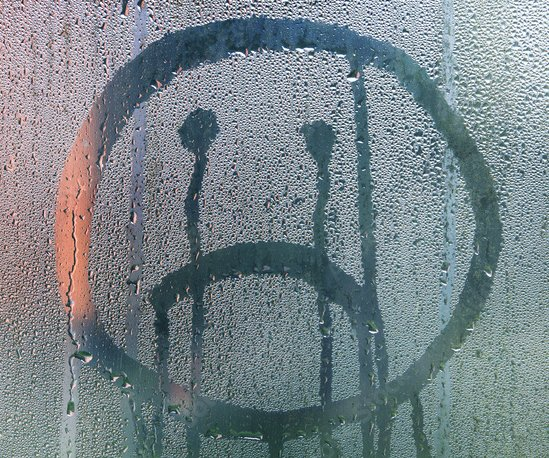
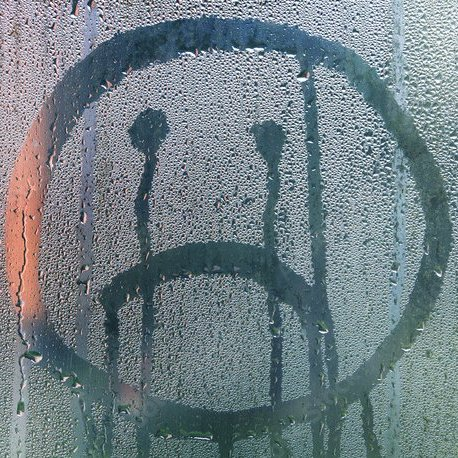
minor beautification fixes

diff --git a/index.html b/index.html
@@ -15,11 +15,6 @@
                 <img src="asdf" alt="Fragile Food Logo" />
             </div>
             <h1>Unusual beauty.</h1>
-            <script>
-            
-                visitwarning()
-                user_referrals()
-            </script>
             <div id="searchbar">
                 <search>
                         <form action="./search">
@@ -62,6 +57,15 @@
         <div id="header_line"></div>
         <article>
             <section>
+                <div id="reply">
+                    <div>
+                        <script>
+                
+                            visitwarning()
+                            user_referrals()
+                        </script>
+                    </div>
+                </div>
                 <div id="keymessage">
                     <script>
                         visitorstatus()

diff --git a/script.js b/script.js
@@ -37,13 +37,14 @@ function user_referrals(){
     }
     document.write(referral_response);
     console.log(referralnumber)
-
+    document.write('<container>')
     for (let i=0; i < referralnumber; i++){
-            document.write('<p><img src="thankyougesture.jpg" alt="folded hands" /></p>');
+            document.write('<img src="thankyougesture.png" alt="folded hands" />');
     }
     if (referralnumber == 0 || referralnumber == null){
-        document.write('<p><img src="sadface.jpg" alt="Frowning face drawn on dewy glass, with water dripping. Dripping makes face look like crying." /></p>');
+        document.write('<img src="sadface.jpg" alt="Frowning face drawn on dewy glass, with water dripping. Dripping makes face look like crying." />');
     }
+    document.write('</container>')
 }
 
 

diff --git a/style.css b/style.css
@@ -4,10 +4,6 @@ body {
     margin: 0px;
 }
 
-p img {
-    width: 50px;
-}
-
 header {
     background-color: rgb(255, 255, 218);
     border-bottom: 1px solid black;  
@@ -21,7 +17,29 @@ header {
 
 #headeritems {
     display: flex;
+    margin-left: 8px;
     margin-top: 70px;
+}
+
+#reply {
+    display: flex;
+    justify-content: center;
+}
+
+#reply div{
+    margin: 8px;
+    display: flex;
+    align-items: center;
+    width: fit-content;
+}
+
+#reply div container{
+    display: flex;
+    margin-left: 8px;
+}
+
+#reply div container img {
+    width: 35px;
 }
 
 #logopic {
